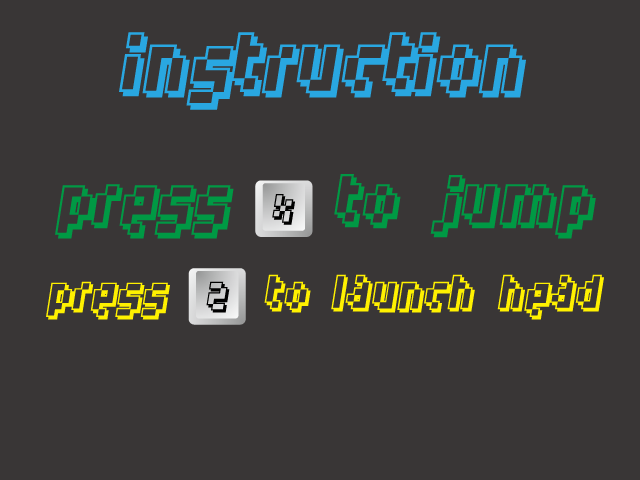
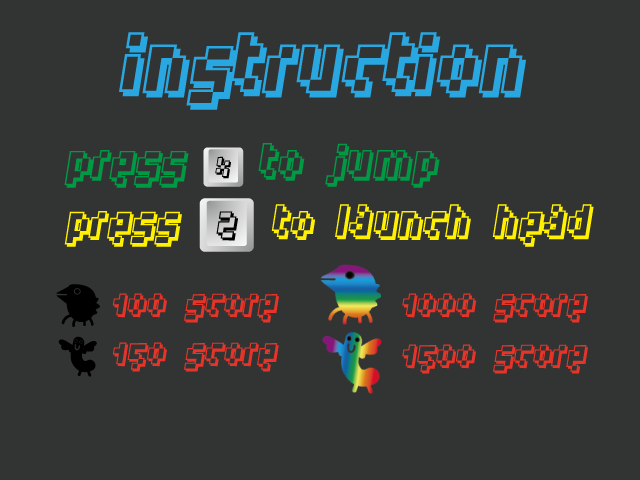
finished

Changed region(s): [[0.0625, 0.2812, 0.9688, 0.8125], [0.625, 0.7188, 0.9375, 0.7812]]

diff --git a/src/game/Game.java b/src/game/Game.java
@@ -72,9 +72,13 @@ public class Game extends Observable {
 		background.update();
 		ground.update();
 		for (int i = 0; i < monsters.size(); i++) {
-			if (!monsters.get(i).isAlive() && Math.random()*100000000 < 2 )
+			if (!monsters.get(i).isAlive() && Math.random()*700 < 2 )
 				score+=monsters.get(i).update(robotHead);
-			score+=monsters.get(i).update(robotHead);
+			else if (monsters.get(i).isAlive())
+				score+=monsters.get(i).update(robotHead);
+			else {
+				monsters.get(i).prerespawn();
+			}
 			if(monsters.get(i).isHit(robot)) {
 				//GAME OVER
 				gameover++;
@@ -93,11 +97,11 @@ public class Game extends Observable {
 				if(i == 3){
 					ImageIcon worm = new ImageIcon(Window.class.getResource(wormImg.get(i)));
 					ImageIcon bird = new ImageIcon(Window.class.getResource(birdImg.get(i)));
-					monsters.add(new SkyWorm(2000, (int)(Math.random()*250), (int)(Math.random()*10)+1, worm.getImage(), rainbowWormScore));
-					monsters.add(new LandBird(1000, -30, (int)(Math.random()*10)+1, bird.getImage(), rainbowBirdScore));
+					monsters.add(new SkyWorm(2000, (int)(Math.random()*250), (int)(Math.random()*11)+8, worm.getImage(), rainbowWormScore));
+					monsters.add(new LandBird(1500, -30, (int)(Math.random()*7)+7, bird.getImage(), rainbowBirdScore));
 				}else {
-					monsters.add(new SkyWorm(2000, (int)(Math.random()*250), (int)(Math.random()*10)+5, ImageIO.read(new File(wormImg.get(i))),wormScore));
-					monsters.add(new LandBird(1000, -30, (int)(Math.random()*5)+3, ImageIO.read(new File(birdImg.get(i))), birdScore));
+					monsters.add(new SkyWorm(2000, (int)(Math.random()*250), (int)(Math.random()*11)+6, ImageIO.read(new File(wormImg.get(i))),wormScore));
+					monsters.add(new LandBird(1500, -30, (int)(Math.random()*7)+4, ImageIO.read(new File(birdImg.get(i))), birdScore));
 				}
 			} catch (IOException e) {
 				e.printStackTrace();

diff --git a/src/game/ChooseCharacterWindow.java b/src/game/ChooseCharacterWindow.java
@@ -78,8 +78,14 @@ public class ChooseCharacterWindow {
 		JButton btnGo = new JButton("");
 		btnGo.addActionListener(new ActionListener() {
 			public void actionPerformed(ActionEvent e) {
-				controller.go();
-				frame.dispose();
+				if(txtInsertName.getText().equals("insert name...") || txtInsertName.getText().equals("") || txtInsertName.getText().length() >= 10 || txtInsertName.getText().equals("Error!!")
+						|| txtInsertName.getText().equalsIgnoreCase("jittat") || txtInsertName.getText().equalsIgnoreCase("stang")){
+						txtInsertName.setText("Error!!");
+				}else{
+					controller.go();
+					frame.dispose();
+				}
+			
 			}
 		});
 		btnGo.setBounds(6, 230, 228, 47);
@@ -239,7 +245,7 @@ public class ChooseCharacterWindow {
 		txtInsertName.addMouseListener(new MouseAdapter(){
             @Override
             public void mouseClicked(MouseEvent e){
-            	if(txtInsertName.getText().equals("insert name..."))
+            	if(txtInsertName.getText().equals("insert name...") || txtInsertName.getText().equals("Error!!"))
                 txtInsertName.setText("");
             }
         });

diff --git a/src/game/ChooseCharacterController.java b/src/game/ChooseCharacterController.java
@@ -23,9 +23,9 @@ public class ChooseCharacterController {
 	ChooseCharacterWindow window;
 
 
-	Leg[] legArr = new Leg [2];
-	Head[] headArr = new Head[4];
-	Body[] bodyArr = new Body[6];
+	Leg[] legArr = new Leg [3];
+	Head[] headArr = new Head[6];
+	Body[] bodyArr = new Body[7];
 
 	NormalIterator headIterator;
 	NormalIterator bodyIterator;
@@ -45,6 +45,7 @@ public class ChooseCharacterController {
 	public void init(){
 		legArr[0] = legFactory.getLeg(1);
 		legArr[1] = legFactory.getLeg(2);
+		legArr[2] = legFactory.getLeg(3);
 
 
 		bodyArr[0] = bodyFactory.getBody(1);
@@ -53,11 +54,14 @@ public class ChooseCharacterController {
 		bodyArr[3] = bodyFactory.getBody(4);
 		bodyArr[4] = bodyFactory.getBody(5);
 		bodyArr[5] = bodyFactory.getBody(6);
+		bodyArr[6] = bodyFactory.getBody(7);
 
 		headArr[0] = headFactory.getHead(1);
 		headArr[1] = headFactory.getHead(2);
 		headArr[2] = headFactory.getHead(3);
 		headArr[3] = headFactory.getHead(4);
+		headArr[4] = headFactory.getHead(5);
+		headArr[5] = headFactory.getHead(6);
 
 
 		window.headLabel.setIcon(new ImageIcon(headArr[0].getImage()));

diff --git a/src/bodyPart/Body7.java b/src/bodyPart/Body7.java
@@ -1,32 +1,33 @@
-package headPart;
+package bodyPart;
 
 import java.awt.image.BufferedImage;
 import java.io.File;
 
 import javax.imageio.ImageIO;
 
-public class Head4 implements Head {
+public class Body7 implements Body {
 
-	String name = "head4";
+	String name = "body7";
 	BufferedImage img;
-	public Head4(){
+	public Body7(){
 		try{
 			
-			img = ImageIO.read(new File("src/assets/head4.png"));
+			img = ImageIO.read(new File("src/assets/body7.png"));
 			
 		} catch (Exception e){	
+		
 		}
 	}
-		
-	public String getName(){
-		return name;
-	}
-	
 	@Override
 	public BufferedImage getImage() {
 		// TODO Auto-generated method stub
 		return img;
 	}
-	
-	
+
+	@Override
+	public String getName() {
+		// TODO Auto-generated method stub
+		return name;
+	}
+
 }

diff --git a/src/legPart/Leg3.java b/src/legPart/Leg3.java
@@ -1,27 +1,26 @@
-package headPart;
+package legPart;
 
 import java.awt.image.BufferedImage;
 import java.io.File;
 
 import javax.imageio.ImageIO;
 
-public class Head4 implements Head {
+public class Leg3 implements Leg {
 
-	String name = "head4";
+	String name = "leg3";
 	BufferedImage img;
-	public Head4(){
+	public Leg3(){
 		try{
+			img = ImageIO.read(new File("src/assets/wheel3.png"));
+		} catch (Exception e){
 			
-			img = ImageIO.read(new File("src/assets/head4.png"));
-			
-		} catch (Exception e){	
 		}
 	}
-		
+	
 	public String getName(){
 		return name;
 	}
-	
+
 	@Override
 	public BufferedImage getImage() {
 		// TODO Auto-generated method stub

diff --git a/src/abstractFactory/HeadFactory.java b/src/abstractFactory/HeadFactory.java
@@ -6,6 +6,8 @@ import headPart.Head1;
 import headPart.Head2;
 import headPart.Head3;
 import headPart.Head4;
+import headPart.Head5;
+import headPart.Head6;
 import legPart.Leg;
 
 public class HeadFactory extends PartFactory {
@@ -19,6 +21,8 @@ public class HeadFactory extends PartFactory {
 		else if ( i == 2 ) return new Head2();
 		else if ( i == 3 ) return new Head3();
 		else if ( i == 4 ) return new Head4();
+		else if ( i == 5 ) return new Head5();
+		else if ( i == 6 ) return new Head6();
 		return null;
 	}
 

diff --git a/src/abstractFactory/BodyFactory.java b/src/abstractFactory/BodyFactory.java
@@ -7,6 +7,7 @@ import bodyPart.Body3;
 import bodyPart.Body4;
 import bodyPart.Body5;
 import bodyPart.Body6;
+import bodyPart.Body7;
 import headPart.Head;
 import legPart.Leg;
 
@@ -29,6 +30,7 @@ public class BodyFactory extends PartFactory {
 		else if ( i == 4 ) return new Body4();
 		else if ( i == 5 ) return new Body5();
 		else if ( i == 6 ) return new Body6();
+		else if ( i == 7 ) return new Body7();
 		return null;
 	}
 

diff --git a/src/headPart/Head5.java b/src/headPart/Head5.java
@@ -5,14 +5,14 @@ import java.io.File;
 
 import javax.imageio.ImageIO;
 
-public class Head4 implements Head {
+public class Head5 implements Head {
 
-	String name = "head4";
+	String name = "head5";
 	BufferedImage img;
-	public Head4(){
+	public Head5(){
 		try{
 			
-			img = ImageIO.read(new File("src/assets/head4.png"));
+			img = ImageIO.read(new File("src/assets/head5.png"));
 			
 		} catch (Exception e){	
 		}

diff --git a/src/headPart/Head6.java b/src/headPart/Head6.java
@@ -5,14 +5,14 @@ import java.io.File;
 
 import javax.imageio.ImageIO;
 
-public class Head4 implements Head {
+public class Head6 implements Head {
 
-	String name = "head4";
+	String name = "head6";
 	BufferedImage img;
-	public Head4(){
+	public Head6(){
 		try{
 			
-			img = ImageIO.read(new File("src/assets/head4.png"));
+			img = ImageIO.read(new File("src/assets/head6.png"));
 			
 		} catch (Exception e){	
 		}

diff --git a/src/abstractFactory/LegFactory.java b/src/abstractFactory/LegFactory.java
@@ -5,6 +5,7 @@ import headPart.Head;
 import legPart.Leg;
 import legPart.Leg1;
 import legPart.Leg2;
+import legPart.Leg3;
 
 
 public class LegFactory extends PartFactory {
@@ -30,6 +31,7 @@ public class LegFactory extends PartFactory {
 		if ( i == 0 ) return null;
 		else if ( i == 1 ) return new Leg1();
 		else if ( i == 2 ) return new Leg2();
+		else if ( i == 3 ) return new Leg3();
 		return null;
 	}
 

diff --git a/src/entity/SkyWorm.java b/src/entity/SkyWorm.java
@@ -11,7 +11,7 @@ public class SkyWorm extends Monster{
 	@Override
 	public void respawn() {
 		super.y = (int)(Math.random()*250);
-		super.vX = (int)(Math.random()*10)+5;
+		super.vX = (int)(Math.random()*11)+6;
 		super.x = 1180;
 		super.active = true;
 	}

diff --git a/src/entity/LandBird.java b/src/entity/LandBird.java
@@ -11,7 +11,7 @@ public class LandBird extends Monster{
 	@Override
 	public void respawn() {
 		super.y = -30;
-		super.vX = (int)(Math.random()*5)+3;
+		super.vX = (int)(Math.random()*7)+4;
 		super.x = 1180;
 		super.active = true;
 	}
